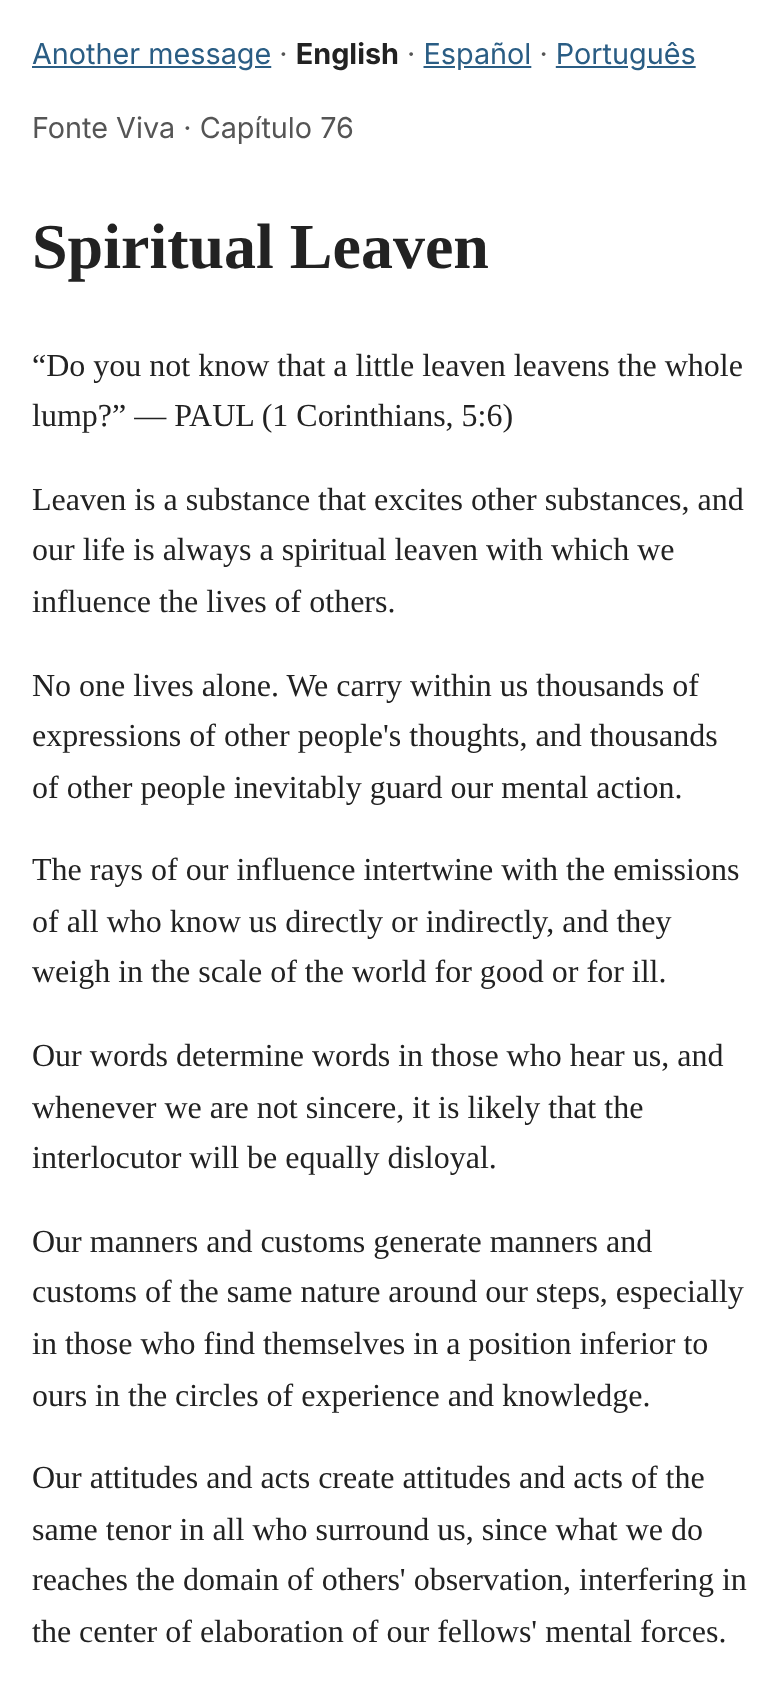
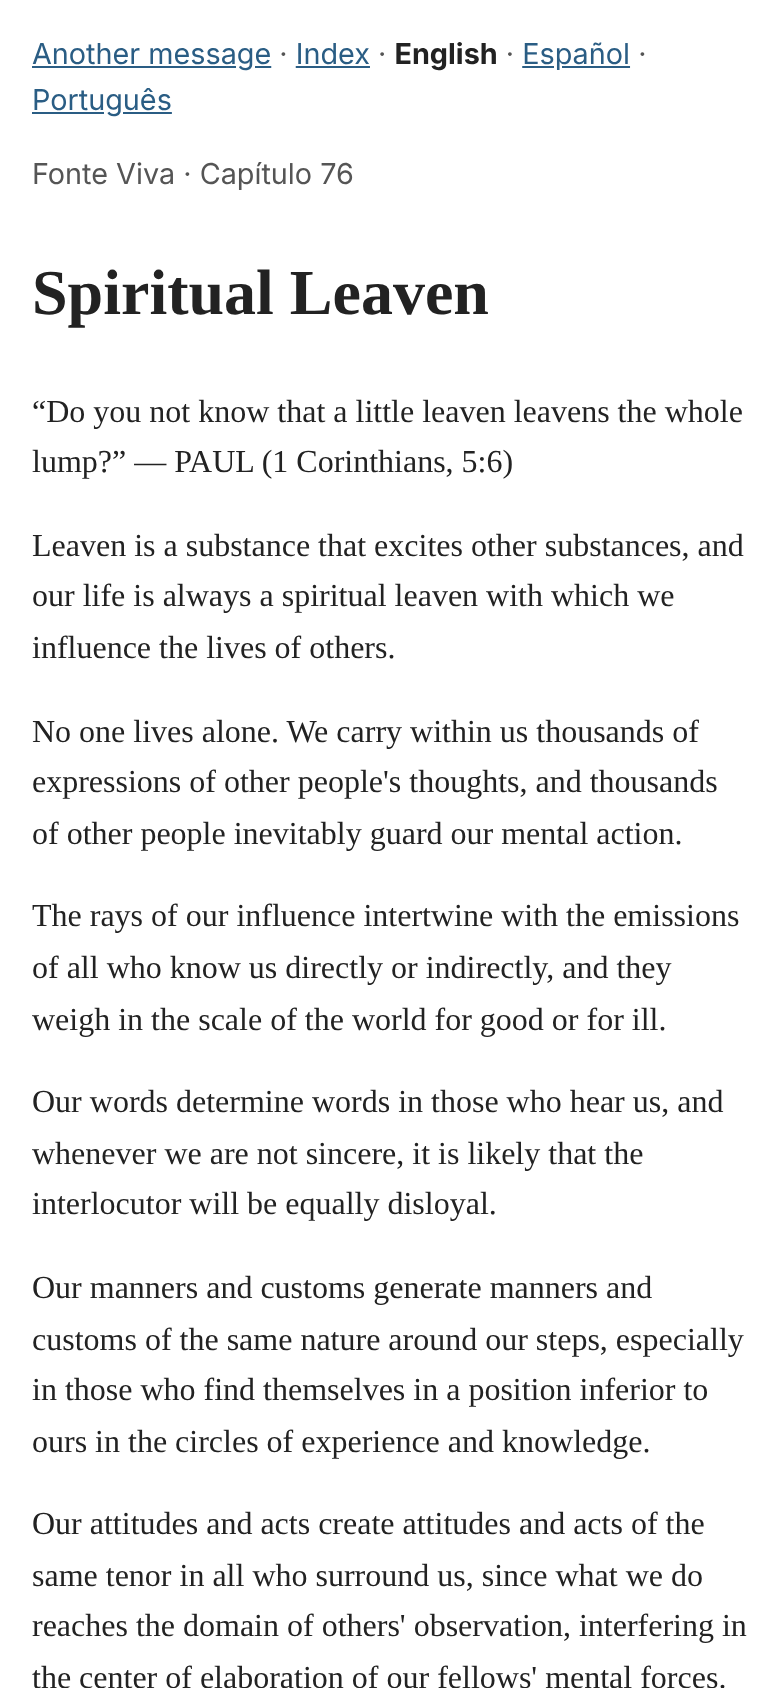
Website: selected language is text, Index link, books first on the index
The selected language on a message page is no longer a link (it led to
the message list); an Index link (Índice) does that instead. A language
page now starts with its books, each linking to its messages.
Specs OP-05.16, OP-05.17, OP-05.18.

Fixes #74

Claude-Session: https://claude.ai/code/session_01WwnYkqyU2RRSq5yJRUVuBV

Changed region(s): [[0.0308, 0.0, 0.9538, 1.0], [0.8923, 0.2773, 0.9538, 0.3389], [0.8615, 0.6161, 0.9231, 0.6777]]

diff --git a/scripts/build-site.ts b/scripts/build-site.ts
@@ -13,7 +13,7 @@ import type { Message } from './parse-message.ts';
 
 type Content = { language: string; books: { slug: string; name: string }[]; messages: Message[] };
 // translationDisclaimer is shown on translated messages, so every language but Portuguese (the original) has one.
-type Labels = { name: string; anotherMessage: string; readOriginal: string; translationDisclaimer?: string };
+type Labels = { name: string; index: string; anotherMessage: string; readOriginal: string; translationDisclaimer?: string };
 
 const WEBSITE_FOLDER = join(import.meta.dirname, '..', 'website');
 
@@ -66,16 +66,21 @@ class Website {
     return this.page(content.language, 'Fonte Viva messages', '', this.randomScript(content, `${content.language}/`, fallback));
   }
 
+  // The books first, as links to their part of the page, then each book's messages.
   languagePage(content: Content): string {
+    const bookLinks = content.books
+      .map((book) => `<li><a href="#${book.slug}">${escapeHtml(book.name)}</a></li>`)
+      .join('\n');
     const books = content.books.map((book) => {
       const links = content.messages
         .filter((m) => m.book === book.slug)
         .map((m) => `<li><a href="${m.slug}/">${escapeHtml(m.title)}</a></li>`)
         .join('\n');
-      return `<h2>${escapeHtml(book.name)}</h2>\n<ul>\n${links}\n</ul>`;
+      return `<h2 id="${book.slug}">${escapeHtml(book.name)}</h2>\n<ul>\n${links}\n</ul>`;
     });
     const name = this.labels[content.language].name;
-    return this.page(content.language, name, '../', this.render('language', { languageName: name, books: books.join('\n') }));
+    const body = this.render('language', { languageName: name, bookLinks, books: books.join('\n') });
+    return this.page(content.language, name, '../', body);
   }
 
   // The "Another message" link: opens a random message of the same language.
@@ -94,6 +99,7 @@ class Website {
       .join('');
     const body = this.render('message', {
       anotherMessage: labels.anotherMessage,
+      index: labels.index,
       languageName: labels.name,
       otherLanguages,
       meta,

diff --git a/specs/ops/steps/website.steps.ts b/specs/ops/steps/website.steps.ts
@@ -96,6 +96,23 @@ Then('every language but {string} in website\\/languages.json has a {string}', f
 
 Then('the page {string} marks {string} as the selected language', function (this: World, page: string, language: string) {
   const html = readPage(this, page);
-  assert.ok(html.includes(`aria-current="true">${language}</a>`), html);
+  assert.ok(html.includes(`<strong class="current" aria-current="true">${language}</strong>`), html);
   assert.equal(html.split('aria-current').length - 1, 1, 'exactly one selected language');
+});
+
+Then('the page {string} has the link {string} to {string}', function (this: World, page: string, text: string, link: string) {
+  assert.ok(readPage(this, page).includes(`<a href="${link}">${text}</a>`));
+});
+
+Then(
+  'the page {string} has the link {string} to {string} before the first message',
+  function (this: World, page: string, text: string, link: string) {
+    const html = readPage(this, page);
+    const position = html.indexOf(`<a href="${link}">${text}</a>`);
+    assert.ok(position >= 0 && position < html.indexOf('<h2'), html);
+  },
+);
+
+Then('the page {string} has the book heading {string}', function (this: World, page: string, id: string) {
+  assert.ok(readPage(this, page).includes(`<h2 id="${id}">`));
 });

diff --git a/website/templates/message.html b/website/templates/message.html
@@ -1,4 +1,4 @@
-<nav><a href="../random/">{{anotherMessage}}</a> · <a href="../" class="current" aria-current="true">{{languageName}}</a>{{otherLanguages}}</nav>
+<nav><a href="../random/">{{anotherMessage}}</a> · <a href="../">{{index}}</a> · <strong class="current" aria-current="true">{{languageName}}</strong>{{otherLanguages}}</nav>
 <p class="meta">{{meta}}</p>
 <h1>{{title}}</h1>
 {{paragraphs}}

diff --git a/website/style.css b/website/style.css
@@ -5,4 +5,4 @@ footer { margin-top: 3rem; border-top: 1px solid #ddd; padding-top: 1rem; }
 .signature { font-style: italic; text-align: right; }
 .medium { font-style: normal; }
 .translation { font-style: italic; }
-nav .current { font-weight: bold; color: #222; text-decoration: none; }
+nav .current { color: #222; }

diff --git a/website/templates/language.html b/website/templates/language.html
@@ -1,3 +1,6 @@
 <nav><a href="../">Fonte Viva messages</a></nav>
 <h1>{{languageName}}</h1>
+<ul class="books">
+{{bookLinks}}
+</ul>
 {{books}}
